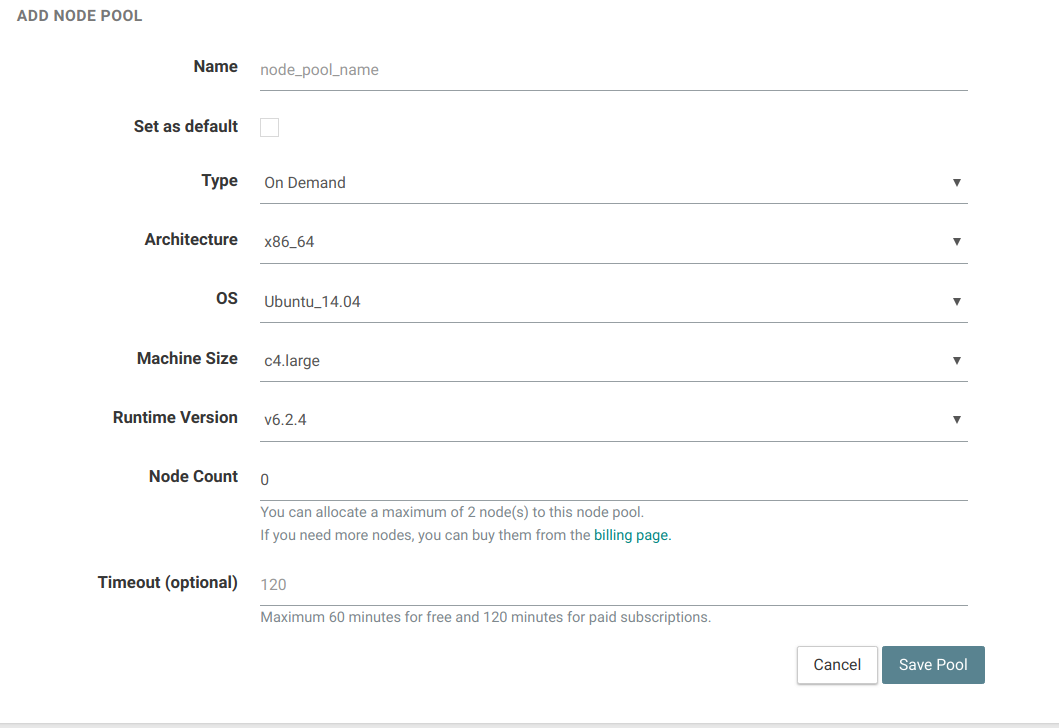
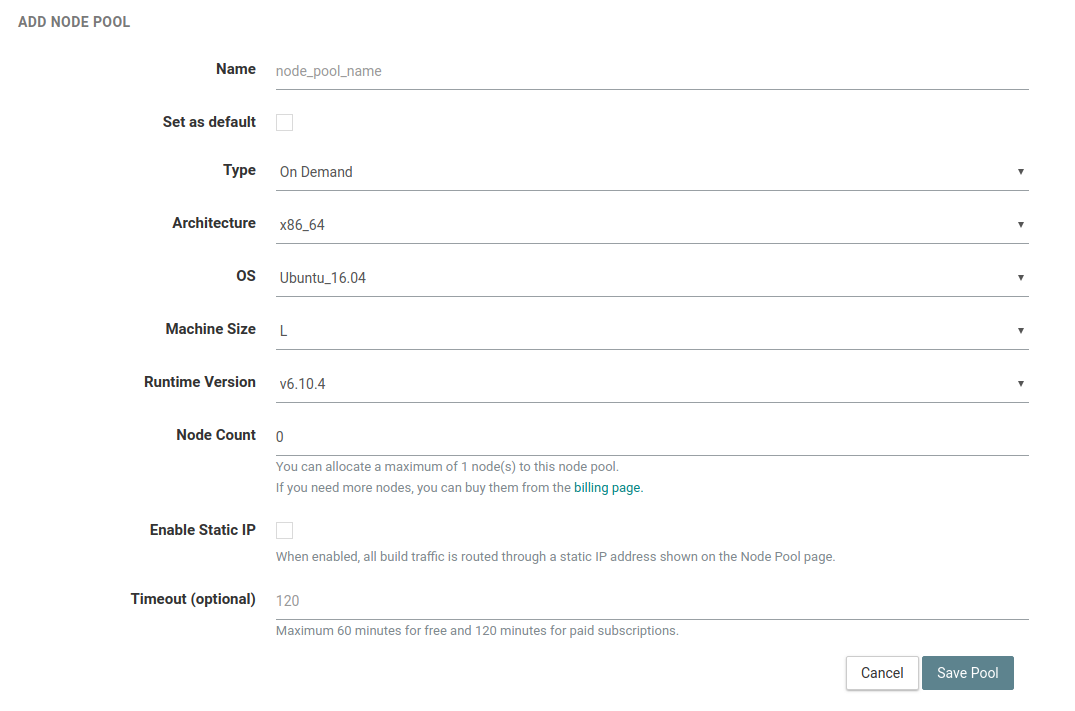
docs for NAT node pools

diff --git a/sources/platform/management/subscription/node-pools.md b/sources/platform/management/subscription/node-pools.md
@@ -4,7 +4,7 @@ sub_section: Management
 sub_sub_section: Subscription
 page_title: Subscription Node Pools - Shippable DevOps Assembly Lines
 page_description: Configuration of Node Pools for your Jobs that run as part of Shippable DevOps Assembly Lines Platform
-page_keywords: Deploy multi containers, microservices, Continuous Integration, Continuous Deployment, CI/CD, testing, automation, pipelines, docker, lxc
+page_keywords: Deploy multi containers, microservices, Continuous Integration, Continuous Deployment, CI/CD, testing, automation, pipelines, docker, lxc, NAT, whitelist, static IP
 
 # Subscription node pools
 
@@ -57,7 +57,7 @@ of the Node Pools page. This will open the **ADD NODE POOL** page.
   selected **Architecture**. For a list of supported OS and architecture
   combinations, refer to the documentation on [Nodes](/platform/runtime/nodes/)
 
-* **Runtime Version** defines the default version of Shippable Machine Images that will be used to run the jobs. You can choose a specific Machine Image to make sure the build nodes have the versions you need for languages/services/CLIs/etc. To learn more about this, read our [Machine image document](/platform/runtime/machine-image/ami-overview/)
+* **Runtime Version** defines the default version of Shippable Machine Images that will be used to run the jobs. You can choose a specific Machine Image to make sure the build nodes have the versions you need for languages/services/CLIs/etc. To learn more about this, read our [Machine image document](/platform/runtime/machine-image/ami-overview/).
 
 * **Node Count** is the number of nodes that can be added to the node pool. The
   upper limit is set by the number of licenses that are available at the
@@ -66,6 +66,8 @@ of the Node Pools page. This will open the **ADD NODE POOL** page.
 * **Max Disk Usage Percentage** is the maximum disk usage after which the build nodes will be marked as failed. This setting is available only for BYON node pools. For BYON node pools if the max disk usage percentage is empty, system defined value is used (default 90%).  For dynamic node pools, system level maximum disk usage percentage is always used.
 
 * **Timeout** is the maximum time(in minutes) after which you want your CI or runSh jobs to  timeout. This timeout is used when your [CI project](/platform/management/project/settings/) or [runSh job](/platform/workflow/job/runsh/) do not have any timeout specified. If this is also not provided then timeout set at [Subscription](/platform/management/subscription/settings/) level or default will be used, in that order. Default value for timeout is 60 minutes for free users and 120 minutes for paid users.
+
+* **Enable Static IP** will cause all the traffic from the nodes in this pool to be routed through a static public IP address. This is useful if you need to be able to whitelist an IP address to allow network traffic from your on-demand nodes. [Read more](#using-static-ip-to-whitelist-traffic-from-on-demand-nodes).
 
 ### Updating node pools
 You can edit any node pool by clicking on the `Edit` button the node pool
@@ -81,13 +83,15 @@ header. This will take you to the **Edit Node Pool** page.
   edited for a node pool. A new node pool should be created with different values
   for these fields if required
 
-* **Runtime Version** defines the default version of Shippable Machine Images that will be used to run the jobs. You can choose a specific Machine Image to make sure the build nodes have the versions you need for languages/services/CLIs/etc. To learn more about this, read our [Machine image document](/platform/runtime/machine-image/ami-overview/)
+* **Runtime Version** defines the default version of Shippable Machine Images that will be used to run the jobs. You can choose a specific Machine Image to make sure the build nodes have the versions you need for languages/services/CLIs/etc. To learn more about this, read our [Machine image document](/platform/runtime/machine-image/ami-overview/).
 
 * **Node Count** is the number of nodes that can be added to the node pool. The
   upper limit is set by the number of licenses that are available at the
   subscription level for the type of selected node pool
 
 * **Timeout** is the maximum time(in minutes) after which you want your CI or runSh jobs to  timeout. This timeout is used when your [CI project](/platform/management/project/settings/) or [runSh job](/platform/workflow/job/runsh/) do not have any timeout specified. If this is also not provided then timeout set at [Subscription](/platform/management/subscription/settings/) level or default will be used, in that order. Default value for timeout is 60 minutes for free users and 120 minutes for paid users.
+
+* **Enable Static IP** will cause all the traffic from the nodes in this pool to be routed through a static public IP address. This is useful if you need to be able to whitelist an IP address to allow network traffic from your on-demand nodes. [Read more](#using-static-ip-to-whitelist-traffic-from-on-demand-nodes).
 
 ### Adding nodes to node pools
 * [On-demand nodes](/platform/runtime/nodes/#on-demand-nodes) automatically get
@@ -104,3 +108,10 @@ containing On-demand nodes, no additional steps are required.
 
 * To remove [BYON nodes](/platform/runtime/nodes/#byon-nodes) from node pools,
   delete individual nodes from their respective node pools. Refer to the documentation on [BYON nodes](/platform/runtime/nodes/#byon-nodes) for steps to delete nodes.
+
+### Using static IP to whitelist traffic from on-demand nodes
+Knowing the IP addresses of the build machines Shippable uses can be helpful when you need them to whitelist specific IP ranges so that build nodes can freely talk to machines/tools within your VPC or network. You can use static IP in your subscription by [creating a node pool](#creating-a-node-pool) with Static IP enabled or [enabling Static IP](#updating-node-pools) in existing node pools.
+
+* You will not be able to run [debug builds](/ci/ssh-access/#how-do-i-start-a-debug-build) on jobs that run in a node pool with static IP enabled.
+
+* This feature is only available for on-demand node pools on paid subscriptions.

diff --git a/sources/platform/tutorial/runtime/manage-node-pools.md b/sources/platform/tutorial/runtime/manage-node-pools.md
@@ -2,6 +2,7 @@ page_main_title: Managing node pools
 main_section: Platform
 sub_section: Tutorials
 sub_sub_section: Runtime
+page_keywords: Deploy multi containers, microservices, Continuous Integration, Continuous Deployment, CI/CD, testing, automation, pipelines, docker, lxc, NAT, whitelist, static IP
 
 # Managing node pools
 
@@ -34,7 +35,7 @@ of the Node Pools page. This will open the **ADD NODE POOL** page.
   selected **Architecture**. For a list of supported OS and architecture
   combinations, refer to the documentation on [Nodes](/platform/runtime/nodes/)
 
-* **Runtime Version** defines the default version of Shippable Machine Images that will be used to run the jobs. You can choose a specific Machine Image to make sure the build nodes have the versions you need for languages/services/CLIs/etc. To learn more about this, read our [Machine image document](/platform/runtime/machine-image/ami-overview/)
+* **Runtime Version** defines the default version of Shippable Machine Images that will be used to run the jobs. You can choose a specific Machine Image to make sure the build nodes have the versions you need for languages/services/CLIs/etc. To learn more about this, read our [Machine image document](/platform/runtime/machine-image/ami-overview/).
 
 * **Node Count** is the number of nodes that can be added to the node pool. The
   upper limit is set by the number of licenses that are available at the
@@ -44,6 +45,7 @@ of the Node Pools page. This will open the **ADD NODE POOL** page.
 
 * **Timeout** is the maximum time(in minutes) after which you want your CI or runSh jobs to  timeout. This timeout is used when your [CI project](/platform/management/project/settings/) or [runSh job](/platform/workflow/job/runsh/) do not have any timeout specified. If this is also not provided then timeout set at [Subscription](/platform/management/subscription/settings/) level or default will be used, in that order. Default value for timeout is 60 minutes for free users and 120 minutes for paid users.
 
+* **Enable Static IP** will cause all the traffic from the nodes in this pool to be routed through a static public IP address. This is useful if you need to be able to whitelist an IP address to allow network traffic from your on-demand nodes. [Read more](#using-static-ip-to-whitelist-traffic-from-on-demand-nodes).
 
 <a name="view-node-pool"></a>
 ## Viewing subscription node pools
@@ -88,13 +90,15 @@ header. This will take you to the **Edit Node Pool** page.
   edited for a node pool. A new node pool should be created with different values
   for these fields if required
 
-* **Runtime Version** defines the default version of Shippable Machine Images that will be used to run the jobs. You can choose a specific Machine Image to make sure the build nodes have the versions you need for languages/services/CLIs/etc. To learn more about this, read our [Machine image document](/platform/runtime/machine-image/ami-overview/)
+* **Runtime Version** defines the default version of Shippable Machine Images that will be used to run the jobs. You can choose a specific Machine Image to make sure the build nodes have the versions you need for languages/services/CLIs/etc. To learn more about this, read our [Machine image document](/platform/runtime/machine-image/ami-overview/).
 
 * **Node Count** is the number of nodes that can be added to the node pool. The
   upper limit is set by the number of licenses that are available at the
   subscription level for the type of selected node pool
 
 * **Timeout** is the maximum time(in minutes) after which you want your CI or runSh jobs to  timeout. This timeout is used when your [CI project](/platform/management/project/settings/) or [runSh job](/platform/workflow/job/runsh/) do not have any timeout specified. If this is also not provided then timeout set at [Subscription](/platform/management/subscription/settings/) level or default will be used, in that order. Default value for timeout is 60 minutes for free users and 120 minutes for paid users.
+
+* **Enable Static IP** will cause all the traffic from the nodes in this pool to be routed through a static public IP address. This is useful if you need to be able to whitelist an IP address to allow network traffic from your on-demand nodes. [Read more](#using-static-ip-to-whitelist-traffic-from-on-demand-nodes).
 
 <a name="view-node-pool"></a>
 ### Adding nodes to node pools
@@ -113,3 +117,10 @@ containing On-demand nodes, no additional steps are required.
 
 * To remove [BYON nodes](/platform/runtime/nodes/#byon-nodes) from node pools,
   delete individual nodes from their respective node pools. Refer to the documentation on [BYON nodes](/platform/tutorial/runtime/manage-byon-nodes) for steps to delete nodes.
+
+### Using static IP to whitelist traffic from on-demand nodes
+Knowing the IP addresses of the build machines Shippable uses can be helpful when you need them to whitelist specific IP ranges so that build nodes can freely talk to machines/tools within your VPC or network. You can use static IP in your subscription by [creating a node pool](#creating-a-node-pool) with Static IP enabled or [enabling Static IP](#updating-node-pools) in existing node pools.
+
+* You will not be able to run [debug builds](/ci/ssh-access/#how-do-i-start-a-debug-build) on jobs that run in a node pool with static IP enabled.
+
+* This feature is only available for on-demand node pools on paid subscriptions.
